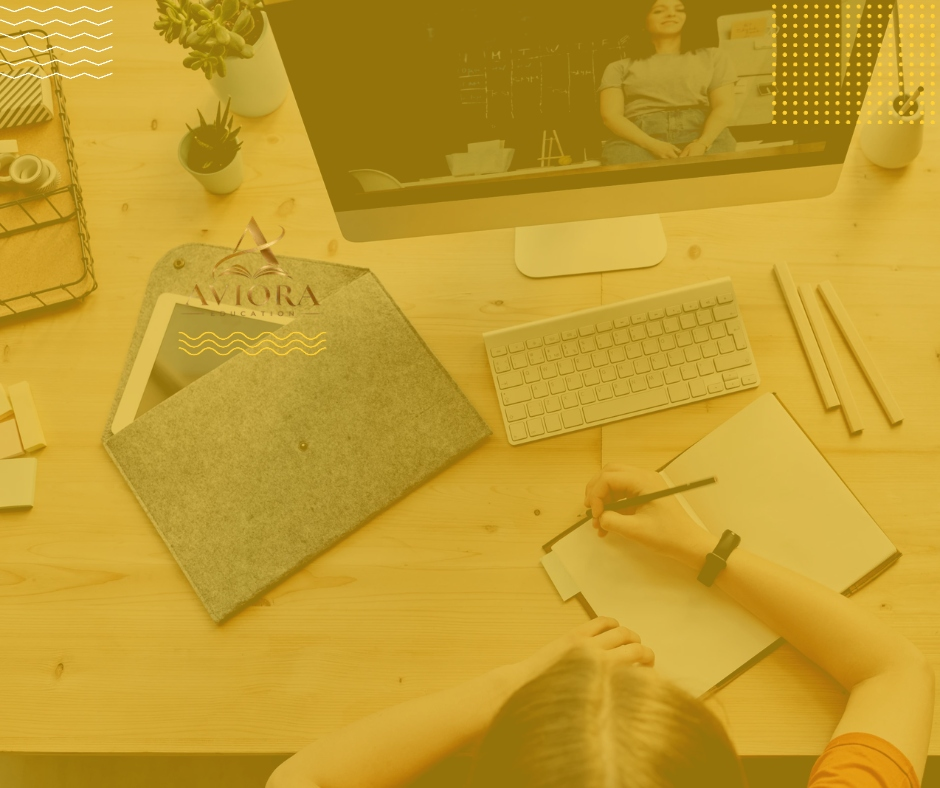
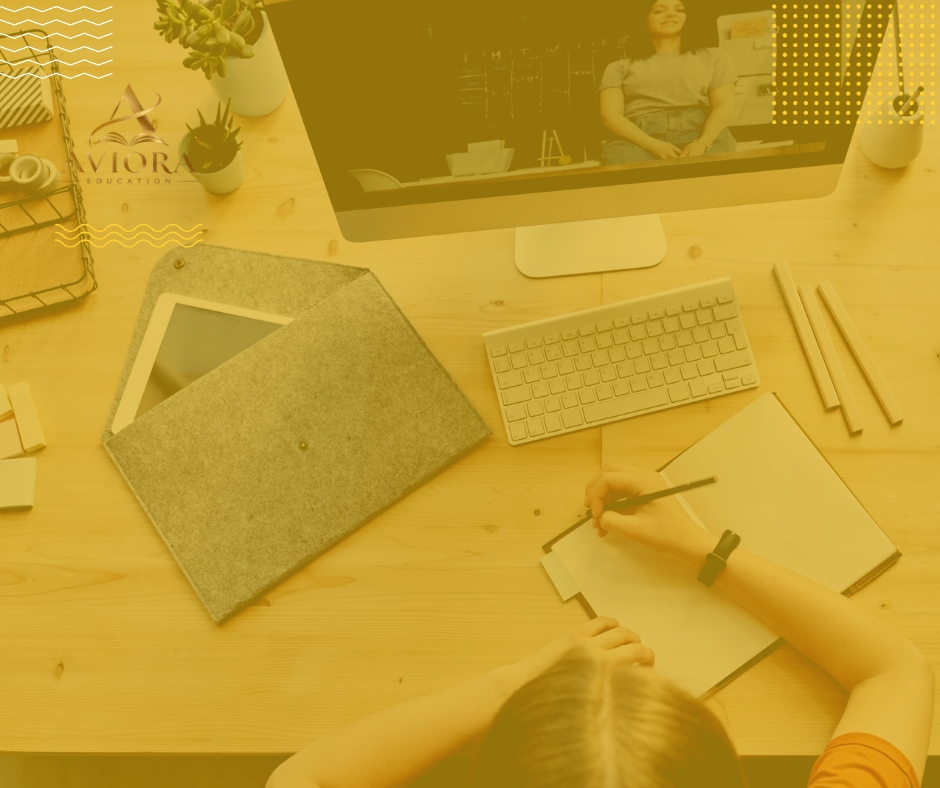
Commit and push to Git

diff --git a/public/js/tutors.js b/public/js/tutors.js
@@ -847,7 +847,7 @@ const Tutors = {
             subjects: this.getTutorActiveSubjects ? this.getTutorActiveSubjects(t) : (t.subjects || [])
           }));
         }
-      } catch (e) {}
+      } catch (e) { }
     }
 
     let tutor = null;
@@ -864,14 +864,14 @@ const Tutors = {
             tutorId = foundId;
           }
         }
-      } catch (e) {}
+      } catch (e) { }
     }
 
     // Try finding by id, user_id, or name match in allTutors
     if (this.allTutors && this.allTutors.length > 0 && tutorId && tutorId !== 'latest') {
       const queryStr = String(tutorId).toLowerCase().trim();
-      tutor = this.allTutors.find(t => 
-        String(t.id) === queryStr || 
+      tutor = this.allTutors.find(t =>
+        String(t.id) === queryStr ||
         String(t.user_id) === queryStr ||
         (t.name && (t.name.toLowerCase() === queryStr || t.name.toLowerCase().includes(queryStr)))
       );
@@ -1250,8 +1250,8 @@ const Tutors = {
   renderAttachmentHtml(m) {
     if (!m || !m.attachment_url) return '';
     const isImg = (m.attachment_type && m.attachment_type.startsWith('image/')) ||
-                  /\.(png|jpe?g|gif|webp|svg|bmp)$/i.test(m.attachment_url) ||
-                  /\.(png|jpe?g|gif|webp|svg|bmp)$/i.test(m.attachment_name || '');
+      /\.(png|jpe?g|gif|webp|svg|bmp)$/i.test(m.attachment_url) ||
+      /\.(png|jpe?g|gif|webp|svg|bmp)$/i.test(m.attachment_name || '');
     if (isImg) {
       return `
         <div class="messenger-bubble-img-wrap">
@@ -1367,7 +1367,7 @@ const Tutors = {
           this.allTutors = freshData.tutors;
           tutor = this.allTutors.find(t => t.id == tutorId || t.user_id == tutorId);
         }
-      } catch (e) {}
+      } catch (e) { }
     }
 
     if (tutorId) {

diff --git a/public/css/components.css b/public/css/components.css
@@ -763,9 +763,9 @@
   left: 0;
   right: 0;
   bottom: 0;
-  background-image: url('/assets/images/auth-bg.jpg?v=3');
+  background-image: url('/assets/images/auth-bg.jpg?v=4');
   background-size: cover;
-  background-position: center 25%;
+  background-position: center 18%;
   background-repeat: no-repeat;
   filter: blur(2.5px) brightness(0.98);
   z-index: -2;
